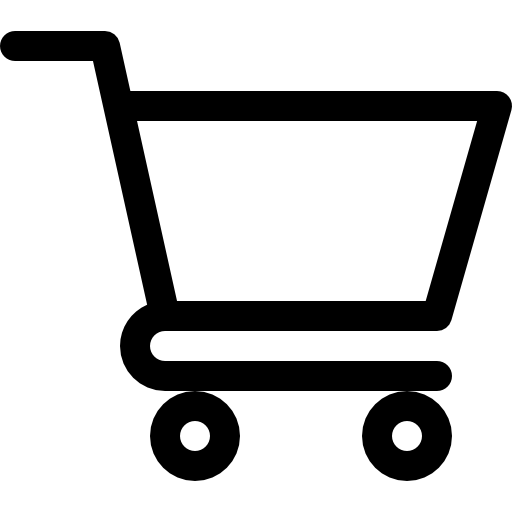
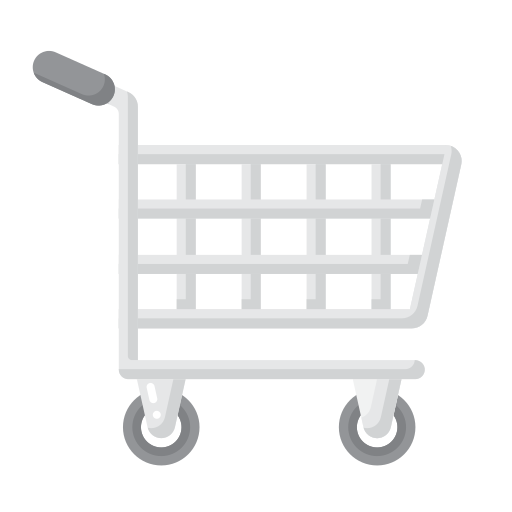
Add files via upload

diff --git a/index.html b/index.html
@@ -8,7 +8,7 @@
         <meta name="author" content="Nicollas Petrin, Marco Antonio Junqueira, Gabriel Borghi">
         <meta name="description" content="site para a vinharia agnello">
         <meta name="keywords" content="HTML5 CSS3 JavaScript">
-        <link rel="shortcut icon" href="src/assets/imgs/icone.png" type="image/x-icon">
+        <link rel="shortcut icon" href="src/assets/imgs/icone.jpeg" type="image/x-icon">
         <title>VINHARIA AGNELLO</title>
         <link rel="stylesheet" href="src/css/style.css">
     </head>

diff --git a/src/css/style.css b/src/css/style.css
@@ -22,8 +22,8 @@ nav a {
 }
 
 .cart {
-  height: 20px;
-  color: white;
+  height: 25px;
+  background-color: #5b0e2d;
 }
 
 .apresentacao {

diff --git a/README.md b/README.md
@@ -6,8 +6,8 @@ Integrantes: Marco Antonio Junqueira de Albuquerque,
 
 Descriçao do Projeto: Um site desenvolvido com um sistema de cadastro e uma organizaçao pro gerenciamento de estoque para o dono da vinicula
 
-Link GitHub: ------------------------------------------
-Link GitHub pages: 
+Link GitHub: [https://github.com/NicollasPetrin/VinhariaAgnelo]
+Link GitHub pages: [https://nicollaspetrin.github.io/VinhariaAgnelo/]  (ass: as imagens não estão sendo carregadas ao abrir o github pages. Mas quando abre o site no localhost as imagens são carregadas normalmente)
 
 Imagem Inicial do Site:  ----------------------------------------
                          ----------------------------------------
@@ -31,8 +31,8 @@ Imagem Inicial do Site:  ----------------------------------------
 Fonte utilizada: Georgia, serif
 
 Cores utilizadas:
-                    #f4ede4
-                        #333
-                    #5b0e2d
-                    #c7a66d
+                    #f4ede4,
+                        #333,
+                    #5b0e2d,
+                    #c7a66d,
                     
